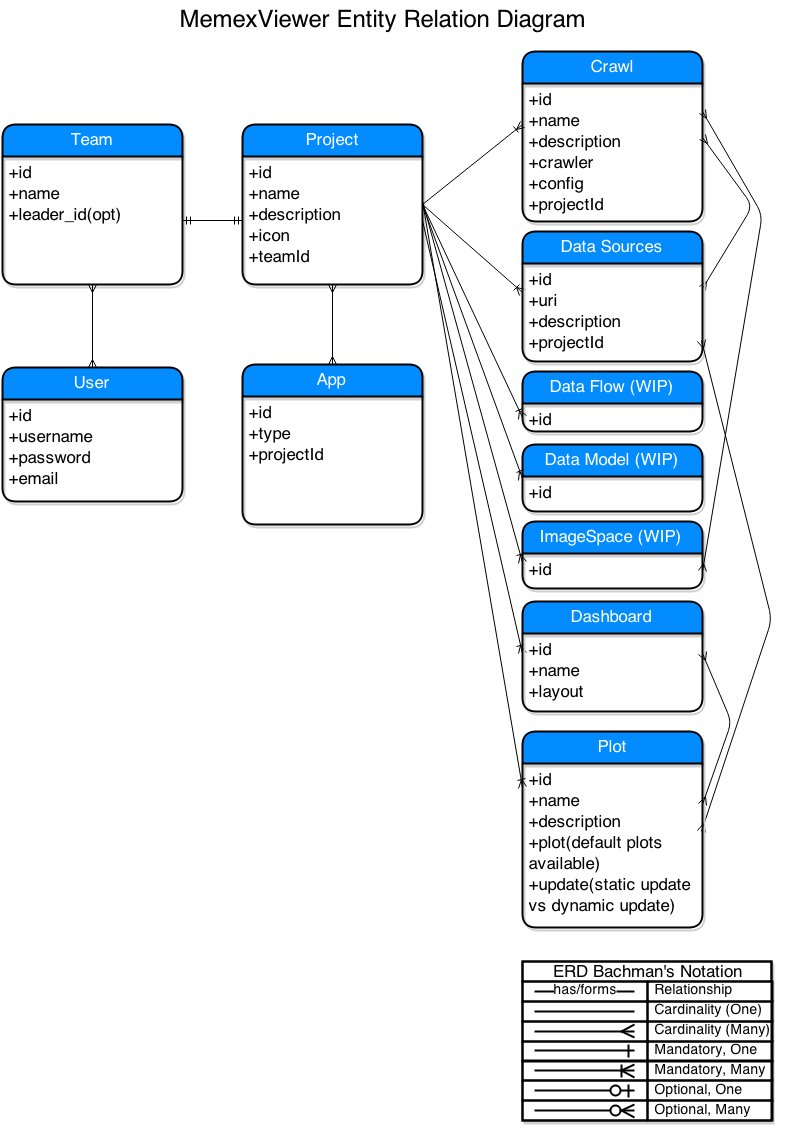
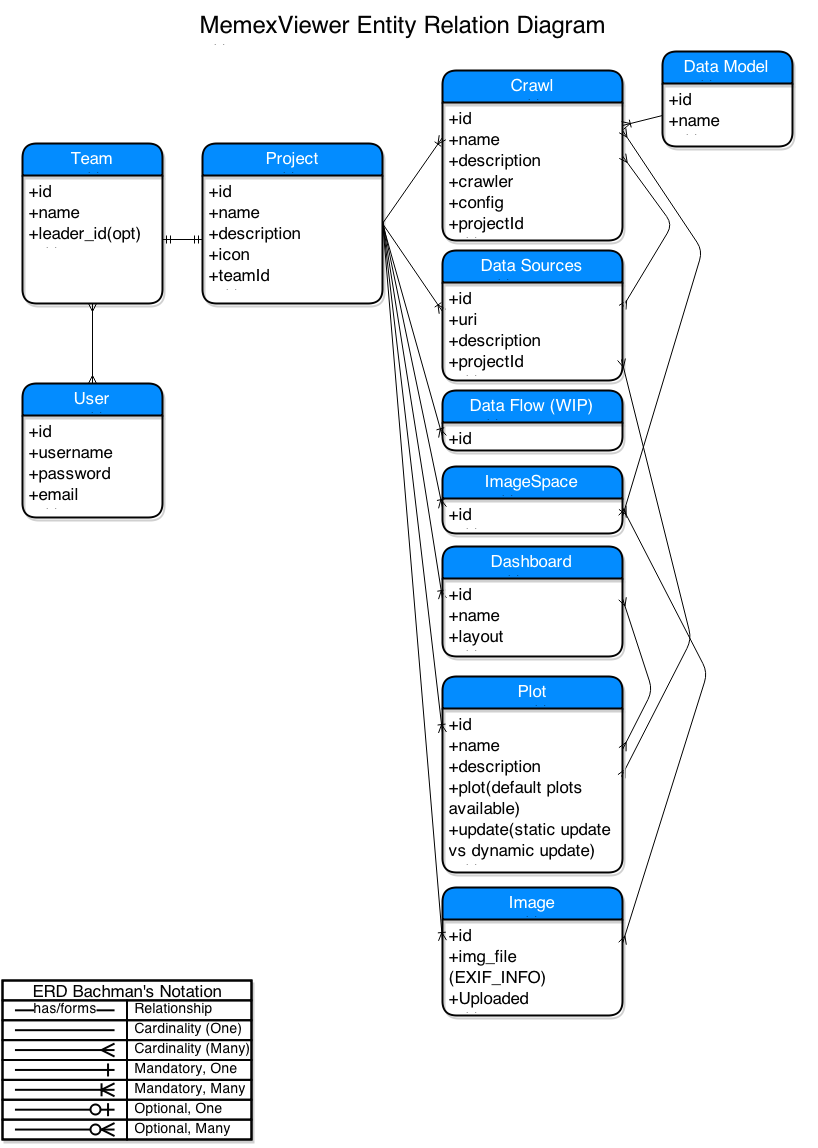
update database model

Changed region(s): [[0.0, 0.0, 1.0, 1.0], [0.0, 0.837, 0.3342, 1.0]]

diff --git a/migrations/versions/19b3f9243f68_.py b/migrations/versions/19b3f9243f68_.py
@@ -1,0 +1,114 @@
+"""empty message
+
+Revision ID: 19b3f9243f68
+Revises: 476dacbdf758
+Create Date: 2014-12-02 19:31:27.265140
+
+"""
+
+# revision identifiers, used by Alembic.
+revision = '19b3f9243f68'
+down_revision = '476dacbdf758'
+
+from alembic import op
+import sqlalchemy as sa
+
+
+def upgrade():
+    ### commands auto generated by Alembic - please adjust! ###
+    op.create_table('data_model',
+    sa.Column('id', sa.Integer(), nullable=False),
+    sa.Column('name', sa.String(length=64), nullable=True),
+    sa.PrimaryKeyConstraint('id')
+    )
+    op.create_table('team',
+    sa.Column('id', sa.Integer(), nullable=False),
+    sa.Column('name', sa.String(length=64), nullable=True),
+    sa.Column('leader_id', sa.Integer(), nullable=True),
+    sa.PrimaryKeyConstraint('id'),
+    sa.UniqueConstraint('name')
+    )
+    op.create_table('user',
+    sa.Column('id', sa.Integer(), nullable=False),
+    sa.Column('username', sa.String(length=64), nullable=True),
+    sa.Column('password', sa.String(length=12), nullable=True),
+    sa.Column('email', sa.String(length=50), nullable=True),
+    sa.PrimaryKeyConstraint('id'),
+    sa.UniqueConstraint('username')
+    )
+    op.create_table('team_user',
+    sa.Column('team_id', sa.Integer(), nullable=True),
+    sa.Column('user_id', sa.Integer(), nullable=True),
+    sa.ForeignKeyConstraint(['team_id'], ['team.id'], ),
+    sa.ForeignKeyConstraint(['user_id'], ['user.id'], )
+    )
+    op.create_table('image',
+    sa.Column('id', sa.Integer(), nullable=False),
+    sa.Column('img_file', sa.String(length=140), nullable=True),
+    sa.Column('EXIF_LensSerialNumber', sa.String(length=140), nullable=True),
+    sa.Column('MakerNote_SerialNumberFormat', sa.String(length=140), nullable=True),
+    sa.Column('EXIF_BodySerialNumber', sa.String(length=140), nullable=True),
+    sa.Column('MakerNote_InternalSerialNumber', sa.String(length=140), nullable=True),
+    sa.Column('MakerNote_SerialNumber', sa.String(length=140), nullable=True),
+    sa.Column('Image_BodySerialNumber', sa.String(length=140), nullable=True),
+    sa.Column('Uploaded', sa.Integer(), nullable=True),
+    sa.Column('project_id', sa.Integer(), nullable=True),
+    sa.ForeignKeyConstraint(['project_id'], ['project.id'], ),
+    sa.PrimaryKeyConstraint('id')
+    )
+    op.drop_table('app')
+    op.drop_table('project_app')
+    with op.batch_alter_table(u'crawl', schema=None) as batch_op:
+        batch_op.add_column(sa.Column('data_model_id', sa.Integer(), nullable=True))
+
+    with op.batch_alter_table(u'dashboard', schema=None) as batch_op:
+        batch_op.add_column(sa.Column('project_id', sa.Integer(), nullable=True))
+
+    with op.batch_alter_table(u'data_source', schema=None) as batch_op:
+        batch_op.add_column(sa.Column('project_id', sa.Integer(), nullable=True))
+
+    with op.batch_alter_table(u'image_space', schema=None) as batch_op:
+        batch_op.add_column(sa.Column('project_id', sa.Integer(), nullable=True))
+
+    with op.batch_alter_table(u'plot', schema=None) as batch_op:
+        batch_op.add_column(sa.Column('project_id', sa.Integer(), nullable=True))
+
+    ### end Alembic commands ###
+
+
+def downgrade():
+    ### commands auto generated by Alembic - please adjust! ###
+    with op.batch_alter_table(u'plot', schema=None) as batch_op:
+        batch_op.drop_column('project_id')
+
+    with op.batch_alter_table(u'image_space', schema=None) as batch_op:
+        batch_op.drop_column('project_id')
+
+    with op.batch_alter_table(u'data_source', schema=None) as batch_op:
+        batch_op.drop_column('project_id')
+
+    with op.batch_alter_table(u'dashboard', schema=None) as batch_op:
+        batch_op.drop_column('project_id')
+
+    with op.batch_alter_table(u'crawl', schema=None) as batch_op:
+        batch_op.drop_column('data_model_id')
+
+    op.create_table('project_app',
+    sa.Column('project_id', sa.INTEGER(), nullable=True),
+    sa.Column('app_id', sa.INTEGER(), nullable=True),
+    sa.ForeignKeyConstraint(['app_id'], [u'app.id'], ),
+    sa.ForeignKeyConstraint(['project_id'], [u'project.id'], )
+    )
+    op.create_table('app',
+    sa.Column('id', sa.INTEGER(), nullable=False),
+    sa.Column('name', sa.VARCHAR(), nullable=True),
+    sa.Column('description', sa.TEXT(), nullable=True),
+    sa.Column('icon', sa.VARCHAR(length=64), nullable=True),
+    sa.PrimaryKeyConstraint('id')
+    )
+    op.drop_table('image')
+    op.drop_table('team_user')
+    op.drop_table('user')
+    op.drop_table('team')
+    op.drop_table('data_model')
+    ### end Alembic commands ###

diff --git a/app/models.py b/app/models.py
@@ -1,26 +1,33 @@
 from . import db
 
 
-project_app = db.Table('project_app',
-    db.Column('project_id', db.Integer, db.ForeignKey('project.id')),
-    db.Column('app_id', db.Integer, db.ForeignKey('app.id') )
+team_user = db.Table('team_user',
+    db.Column('team_id', db.Integer, db.ForeignKey('team.id')),
+    db.Column('user_id', db.Integer, db.ForeignKey('user.id'))
 )
+
+
+class Team(db.Model):
+    __tablename__ = "team"
+    id = db.Column(db.Integer, primary_key=True)
+    name = db.Column(db.String(64), unique=True)
+    leader_id = db.Column(db.Integer)
+    users = db.relationship('User', secondary=team_user, \
+        backref=db.backref('team', lazy='dynamic'))
+
+
+class User(db.Model):
+    __tablename__ = "user"
+    id = db.Column(db.Integer, primary_key=True)
+    username = db.Column(db.String(64), unique=True)
+    password = db.Column(db.String(12))
+    email = db.Column(db.String(50))
 
 
 class Project(db.Model):
     __tablename__ = "project"
     id = db.Column(db.Integer, primary_key=True)
     name = db.Column(db.String(64), unique=True)
-    description = db.Column(db.Text)
-    icon = db.Column(db.String(64))
-    apps = db.relationship("App", secondary=project_app, backref="projects")
-    crawls = db.relationship("Crawl", backref="project")
-
-
-class App(db.Model):
-    __tablename__ = "app"
-    id = db.Column(db.Integer, primary_key=True)
-    name = db.Column(db.String, unique=True)
     description = db.Column(db.Text)
     icon = db.Column(db.String(64))
 
@@ -57,6 +64,7 @@ class Crawl(db.Model):
     crawler = db.Column(db.Text)
     config = db.Column(db.Text)
     project_id = db.Column(db.Integer, db.ForeignKey('project.id'))
+    data_model_id = db.Column(db.Integer, db.ForeignKey('data_model.id'))
     data_sources = db.relationship('DataSource', secondary=crawl_data, \
         backref=db.backref('crawl', lazy='dynamic'))
     images = db.relationship('ImageSpace', secondary=crawl_images, \
@@ -66,12 +74,22 @@ class Crawl(db.Model):
         return '<Crawl %r>' % (self.name)
 
 
+class DataModel(db.Model):
+    __tablename__ = "data_model"
+    id = db.Column(db.Integer, primary_key=True)
+    name = db.Column(db.String(64))
+
+    def __repr__(self):
+        return '<DataModel %r>' % (self.name)
+
+
 class DataSource(db.Model):
     __tablename__ = "data_source"
     id = db.Column(db.Integer, primary_key=True)
     name = db.Column(db.String(64))
     data_uri = db.Column(db.String(120))
     description = db.Column(db.Text)
+    project_id = db.Column(db.Integer, db.ForeignKey('project.id'))
     plots = db.relationship('Plot', secondary=data_plot, \
         backref=db.backref('data', lazy='dynamic'))
 
@@ -84,9 +102,28 @@ class ImageSpace(db.Model):
     id = db.Column(db.Integer, primary_key=True)
     images_location = db.Column(db.Text)
     description = db.Column(db.Text)
+    project_id = db.Column(db.Integer, db.ForeignKey('project.id'))
 
     def __repr__(self):
         return '<ImageSpace %r>' % (self.id)
+
+
+class Image(db.Model):
+    __tablename__ = "image"
+    __table_args__ = {'extend_existing': True}
+    id = db.Column(db.Integer, primary_key=True)
+    img_file = db.Column(db.String(140))
+    EXIF_LensSerialNumber = db.Column(db.String(140))
+    MakerNote_SerialNumberFormat = db.Column(db.String(140))
+    EXIF_BodySerialNumber = db.Column(db.String(140))
+    MakerNote_InternalSerialNumber = db.Column(db.String(140))
+    MakerNote_SerialNumber = db.Column(db.String(140))
+    Image_BodySerialNumber = db.Column(db.String(140))
+    Uploaded = db.Column(db.Integer)
+    project_id = db.Column(db.Integer, db.ForeignKey('project.id'))
+
+    def __unicode__(self):
+        return self.img_file
 
 
 class Plot(db.Model):
@@ -95,6 +132,7 @@ class Plot(db.Model):
     name = db.Column(db.String(64))
     description = db.Column(db.Text)
     plot = db.Column(db.String(64))
+    project_id = db.Column(db.Integer, db.ForeignKey('project.id'))
 
 
 class Dashboard(db.Model):
@@ -102,6 +140,7 @@ class Dashboard(db.Model):
     id = db.Column(db.Integer, primary_key=True)
     name = db.Column(db.String(64), unique=True)
     description = db.Column(db.Text)
+    project_id = db.Column(db.Integer, db.ForeignKey('project.id'))
     plots = db.relationship('Plot', secondary=plot_dashboard, \
         backref=db.backref('dashboard', lazy='dynamic'))
 

diff --git a/app/views.py b/app/views.py
@@ -28,7 +28,7 @@ from bokeh.plotting import ColumnDataSource
 # -------------
 
 from . import app, db
-from .models import Crawl, DataSource, Dashboard, Plot, Project, App
+from .models import Crawl, DataSource, Dashboard, Plot, Project
 from .forms import CrawlForm, DashboardForm, MonitorDataForm, PlotForm, ContactForm
 from .mail import send_email
 from .config import ADMINS, DEFAULT_MAIL_SENDER
@@ -39,8 +39,7 @@ from .plotting import plot_builder
 @app.context_processor
 def context():
     projects = Project.query.all()
-    apps = App.query.all()
-    return dict(projects=projects, apps=apps)
+    return dict(projects=projects)
 
 
 @app.errorhandler(404)
